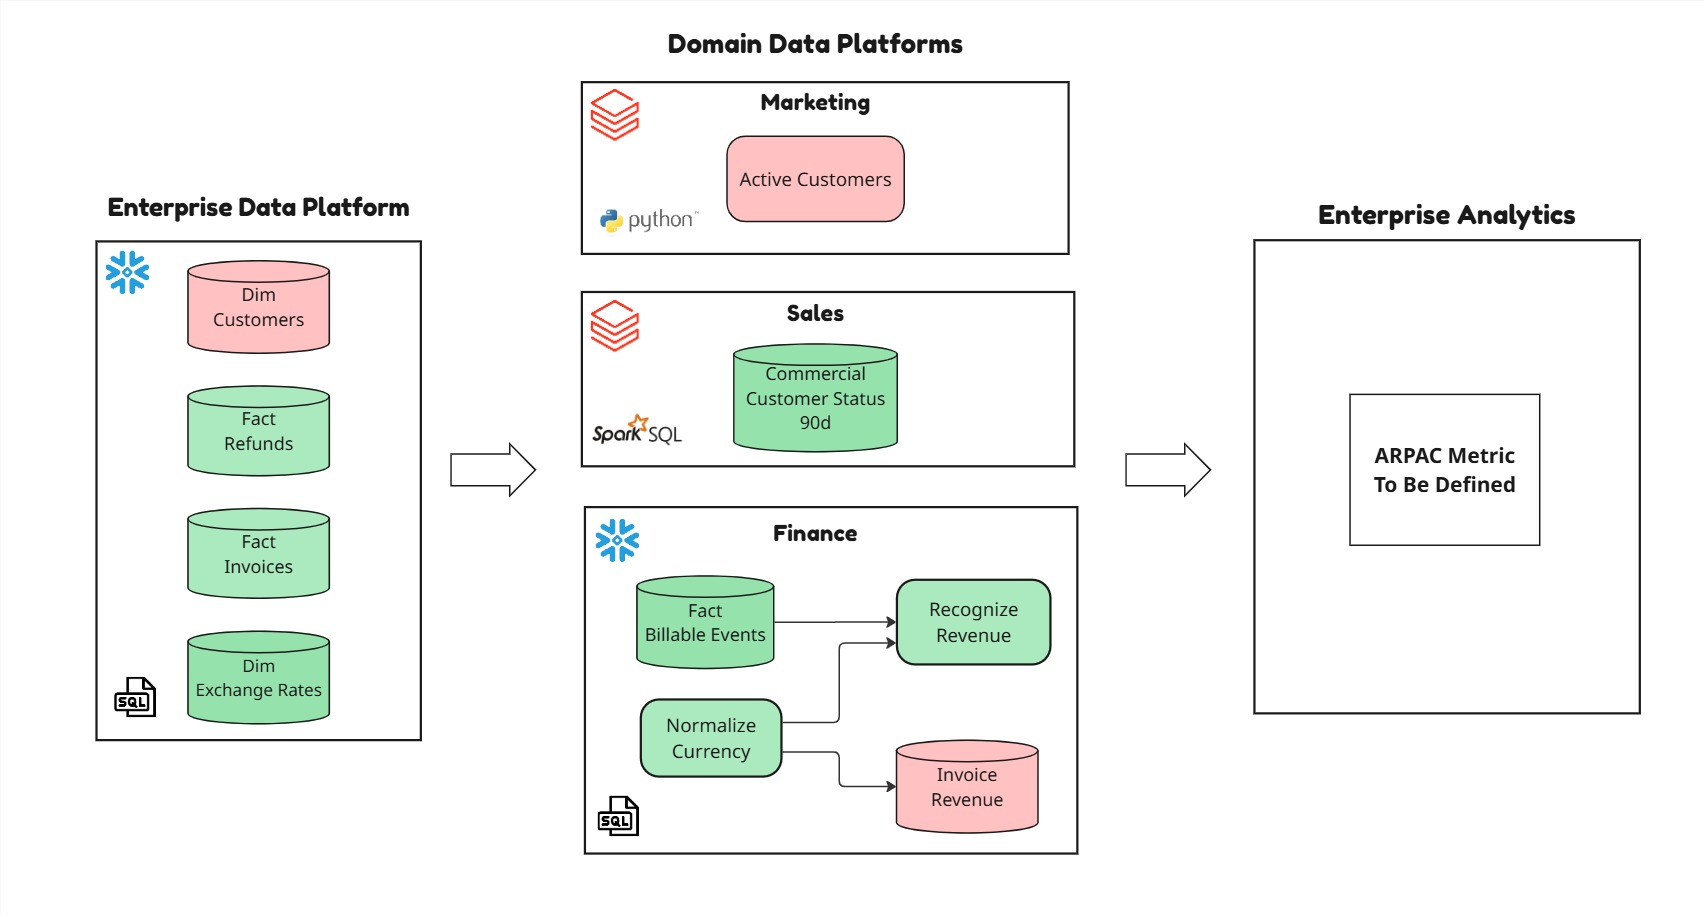
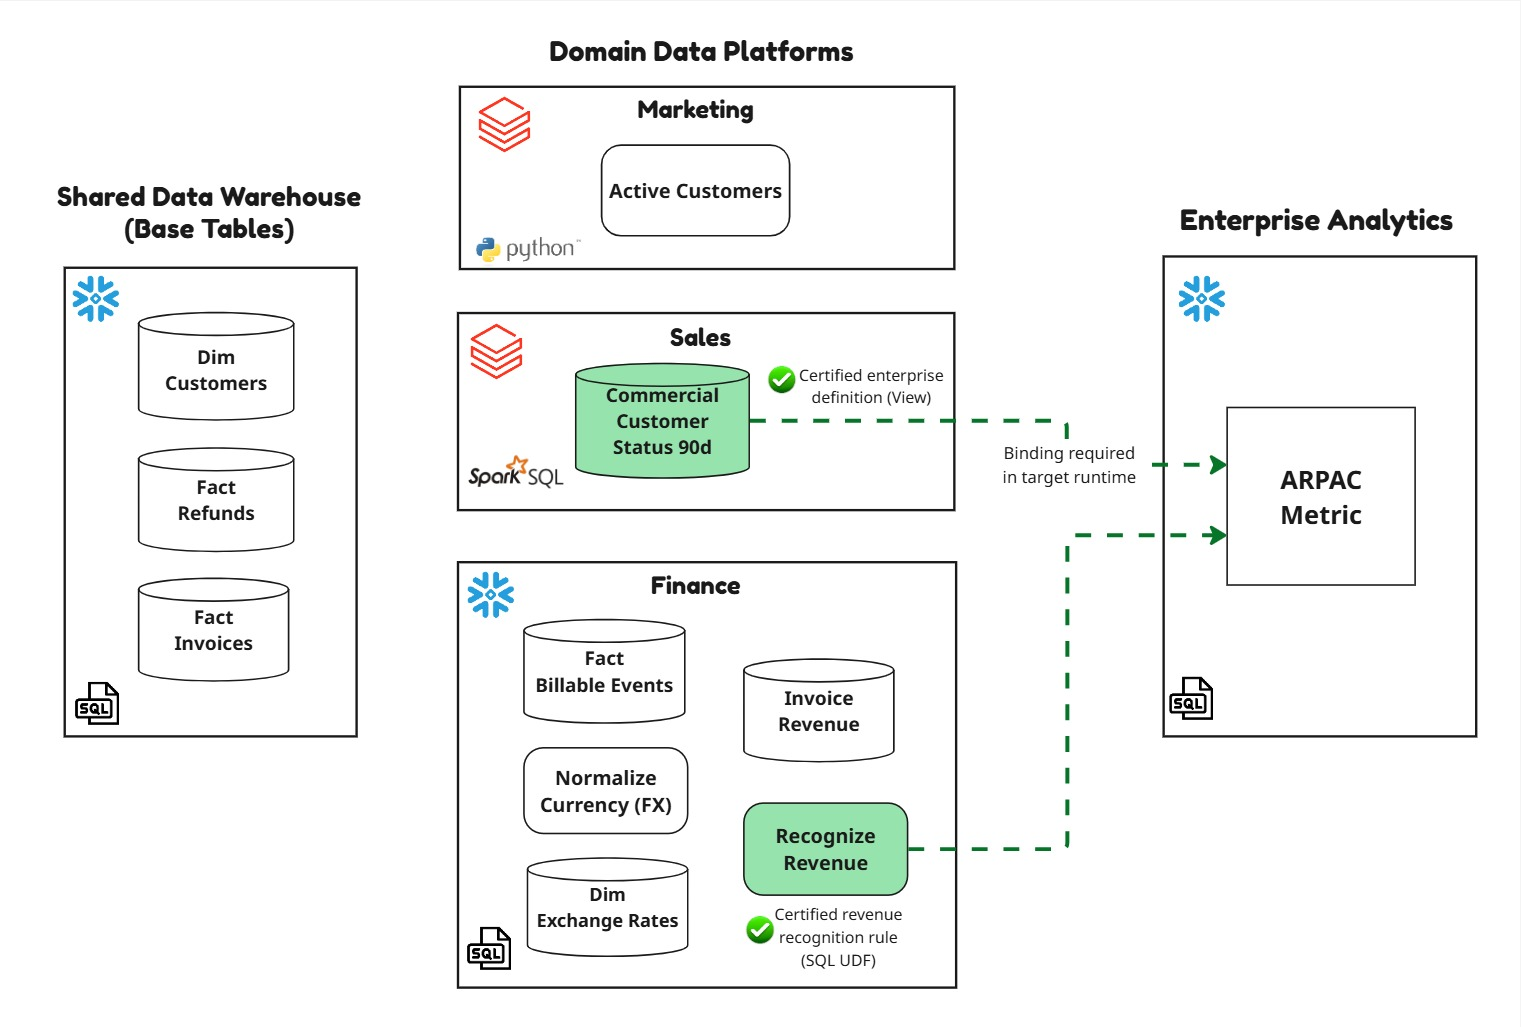
update demo

Changed region(s): [[0.0309, 0.0306, 0.927, 0.9782], [0.7416, 0.1834, 0.9888, 0.7336], [0.7416, 0.7642, 0.9579, 0.7948]]

diff --git a/registry-aware-authoring/article.md b/registry-aware-authoring/article.md
@@ -8,35 +8,40 @@
 
 ## An analytics engineer is asked for one number
 
-An analytics engineer is handed a familiar task: build **ARPAC — Average Revenue per Active Customer** (trailing 90 days) for an executive dashboard. They open their IDE, describe the metric to GitHub Copilot, and let it draft the SQL.
+An analytics engineer is handed a familiar task: build **ARPAC — Average Revenue per Active Customer** (trailing 90 days) for an executive dashboard. 
+They open their IDE, describe the metric to an AI coding assistant — GitHub Copilot in this PoC — and let it draft the SQL.
 
-ARPAC does not exist yet as a governed metric. But its parts do. **Net recognized revenue** and **active customers** are among the most reused concepts in any company — defined and redefined across warehouses, notebooks, dbt projects, and BI tools. In most medium and large organizations there are several *valid but different* definitions of each, each certified for a particular scope: a marketing definition of "active," a finance definition of "recognized revenue," a domain-local flag that was never meant to leave its team.
+ARPAC does not exist yet as a governed metric. But its parts do. **Net recognized revenue** and **active customers** are among the most reused concepts in any company — defined and redefined across warehouses, notebooks, and BI tools. In most large organizations, each concept has several *valid but different* definitions. Some are legitimate but intentionally scoped to a team or domain, such as Marketing or Finance, rather than approved as company-wide canonicals. Others are legacy or retired tables, views, or code that remain in repositories and can be mistaken for valid reuse candidates by an AI coding assistant.
 
-So the real task is not "write ARPAC from scratch." It is "compose ARPAC **from the definitions that are already approved for executive reporting**." That is a reuse problem, and it is exactly where AI-assisted authoring is supposed to help.
+So the real task is not "write ARPAC from scratch." It is "compose ARPAC for executive reporting **from definitions already approved as company-wide canonicals**." That is a reuse problem, and it is exactly where AI-assisted authoring is supposed to help.
 
-This article reports a small proof of concept that tested how well it does. The result is the interesting part: with the ordinary workspace-based approach, **none of the models produced the correct governed metric** — and giving the assistant *more* code made the answer more confident and more wrong.
+This article reports a small proof of concept that tested how well it does. The result is the interesting part: when the AI coding assistant could use only the code available in its workspace, **none of the models produced the correct governed metric** — and giving it more workspace code made the answer more confident and more wrong.
 
 ---
 
 ## The test: one metric, three models, three setups
+The diagram below maps the ARPAC use case across the enterprise data platform, highlighting the two certified enterprise definitions that the governed metric should reuse.
+![Data Landscape In The PoC](../publications/assets-diagrams/registry-aware-authoring-poc-scenarios.jpg)
 
 The PoC runs the same ARPAC task through three authoring setups and three current models — **GPT-5.5**, **Claude Sonnet 4.6**, and **Claude Opus 4.8**:
 
-- **Scenario 1A — standard Copilot, base tables only.** Only the shared warehouse tables (`dim_customers`, `fact_invoices`, `fact_refunds`) are in the workspace.
-- **Scenario 1B — standard Copilot, base tables + domain repositories.** The Finance and Marketing domain code is added, so the assistant can find similar existing logic.
-- **Scenario 2 — registry-aware authoring.** Instead of raw files, the assistant works through the **DRY Artifact Registry** — exposed as structured tools over a thin MCP server and driven by a custom **DRY Reuse** agent.
+| Authoring setup | Scenario | What the AI coding assistant can use |
+|---|---|---|
+| **Workspace-only (base tables)** | **Scenario 1A** | The shared warehouse tables: `dim_customers`, `fact_invoices`, and `fact_refunds`. |
+| **Workspace-only (base tables + domain repositories)** | **Scenario 1B** | The base tables plus chosen Finance and Marketing domain code, so the assistant can find similar existing logic. |
+| **Registry-aware authoring** | **Scenario 2** | The **DRY Artifact Registry**, exposed as structured tools over a thin MCP server and driven by the custom **DRY Reuse** agent. |
 
 The prompt is the same business intent in every run: a trailing-90-day ARPAC, numerator = net recognized revenue in USD counting *only* active customers, denominator = the count of active customers, "reuse existing definitions where appropriate and explain what was reused." The exact wording is not the point — the *pattern* it exposes is. (Full prompts and recorded runs: [demo walkthrough](demo-walkthrough.md).) Each scenario's repositories are mocked and deliberately scoped, so the test isolates *which context the assistant can reach*, not codebase size.
 
 One scoring rule matters up front, because it looks harsh and is deliberate. A run is graded on **one** question: *did it deliver the correct, governed ARPAC?* If a model cannot produce a component because the certified definition was unreachable, that scores **zero** — exactly like getting it wrong. Reachability is not an excuse; it is precisely the deficiency the registry exists to remove.
 
-![The nine artifacts and what each scenario can see](../publications/assets-diagrams/registry-aware-authoring-poc-scenarios.jpg)
+
 
 ---
 
 ## Why exposing the code workspace to Copilot doesn't deliver governed reuse
 
-### Scenario 1A: the duplication amplifier
+### Scenario 1A — Workspace-only (base tables): the duplication amplifier
 
 With only base tables visible, every model does the same thing: it builds ARPAC from first principles. It sums raw invoice amounts, and — depending on the run — nets refunds itself, filters to USD by hand, and reaches for `dim_customers.is_active` as the definition of "active customer."
 
@@ -44,13 +49,13 @@ The SQL runs. It looks correct. And it silently re-implements three governed rul
 
 This is the whitepaper's *"AI assistant as duplication amplifier"*: without reuse context, re-implementing a definition is cheaper than discovering it.
 
-### Scenario 1B: similarity without authority — the real finding
+### Scenario 1B — Workspace-only (base tables + domain repositories): similarity without authority
 
 The obvious fix is to give the assistant more to work with, so Scenario 1B adds the domain repositories. This is where the result becomes counter-intuitive, and where the article's headline sits: **more context did not fix the answer — it made the wrong one more convincing.**
 
 With domain code visible, the models found similar artifacts and reused them — the wrong ones:
 
-- The Finance repo contains `invoice_revenue` — a **retired** view that skips refunds. Nothing in the file says "retired," so models reused it and reproduced a known defect.
+- The Finance repo contains `invoice_revenue` — a **retired** view that skips refunds. Nothing in the code repository says "retired," so models reused it and reproduced a known defect.
 - The Marketing repo contains a login-based active-customer rule — a **domain-local** definition never certified for executive reporting. Two of the three models translated it to SQL and explicitly labelled it *"the authoritative active-customer definition used by executive dashboards."*
 - Meanwhile the actually-certified recognition function and the certified active-customer status view were **invisible** — they exist only as deployed warehouse objects and in repositories that were never checked out.
 
@@ -143,7 +148,7 @@ The same call is the agent's closing **Verify** step by design: find composables
 
 Because the MCP server and the CLI are thin clients over the **same** Lookup & Compare services, an engineer does not need the agent to use them: `search`, `recommend`, `resolve-binding`, and `compare` are callable from the command line for an ad-hoc check at authoring time, or as a build-time CI gate so the same comparison fires before merge.
 
-### Scenario 2 results
+### Scenario 2 — Registry-aware authoring: results
 
 The outcome held across all three models. Every one:
 

diff --git a/registry-aware-authoring/README.md b/registry-aware-authoring/README.md
@@ -71,18 +71,19 @@ components**. It does **not** store or execute implementation code:
 
 In this PoC the "existing repositories" are **mocked** as a per-scenario workspace tree (`registry-aware-authoring/scenarios/scenario-.../workspace/`).
 
-- **Scenario 1 — workspace-exposed DWH codebase.** The warehouse code is placed in the workspace and
-  standard Copilot reasons over it to build the metric. **1A** exposes base DWH tables only; **1B**
-  additionally exposes the domain warehouse tables/functions.
-- **Scenario 2 — registry-aware authoring.** The DRY Artifact Registry (registry service methods +
+- **Scenario 1 — workspace-only authoring.** Standard Copilot reasons over code available in the
+  workspace to build the metric. **Scenario 1A — Workspace-only (base tables)** exposes base DWH
+  tables only; **Scenario 1B — Workspace-only (base tables + domain repositories)** additionally
+  exposes Finance and Marketing domain code.
+- **Scenario 2 — Registry-aware authoring.** The DRY Artifact Registry (registry service methods +
   comparison service methods) is exposed through a thin MCP server and driven by the DRY Reuse agent
   (architecture in §7).
 
-| Scenario | Authoring mode | Exposed in the workspace | Likely / intended outcome |
-|---|---|---|---|
-| **1A** | Standard Copilot (workspace context + search) | Base DWH tables only (`dim_customers`, `fact_invoices`, `fact_refunds`) | Copilot re-codes ARPAC from first principles: invoice-based revenue, refunds ignored, invoice date as revenue date, and `dim_customers.is_active` (a 12-month order flag) misused as the active-customer definition. |
-| **1B** | Standard Copilot (workspace context + search) | Base tables **+** finance & marketing domain repos | Copilot reuses the most *similar* code it finds — the **retired** `finance.datasets.invoice_revenue` view and the Marketing-specific `active_customer` login rule — but similarity and availability do not indicate business authority. |
-| **2** | Registry-aware custom agent (MCP intent lookup + code comparison) | The **registry** (logical artifacts + resolvable bindings). The registry manifests live alongside it in `registry-aware-authoring/scenarios/scenario-2/registry-manifests/` | The agent searches by intent, evaluates lifecycle/scope, resolves the certified Snowflake and Databricks bindings, and authors **only** the missing Enterprise composition. Nothing governed is re-implemented. |
+| Authoring setup | Scenario | Authoring mode | Exposed in the workspace | Likely / intended outcome |
+|---|---|---|---|---|
+| **Workspace-only (base tables)** | **1A** | Standard Copilot (workspace context + search) | Base DWH tables only (`dim_customers`, `fact_invoices`, `fact_refunds`) | Copilot re-codes ARPAC from first principles: invoice-based revenue, refunds ignored, invoice date as revenue date, and `dim_customers.is_active` (a 12-month order flag) misused as the active-customer definition. |
+| **Workspace-only (base tables + domain repositories)** | **1B** | Standard Copilot (workspace context + search) | Base tables **+** Finance and Marketing domain repositories | Copilot reuses the most *similar* code it finds — the **retired** `finance.datasets.invoice_revenue` view and the Marketing-specific `active_customer` login rule — but similarity and availability do not indicate business authority. |
+| **Registry-aware authoring** | **2** | Registry-aware custom agent (MCP intent lookup + code comparison) | The **registry** (logical artifacts + resolvable bindings). The registry manifests live alongside it in `registry-aware-authoring/scenarios/scenario-2/registry-manifests/` | The agent searches by intent, evaluates lifecycle/scope, resolves the certified Snowflake and Databricks bindings, and authors **only** the missing Enterprise composition. Nothing governed is re-implemented. |
 
 The failure modes in 1A/1B are the point: **workspace similarity without governance can be worse
 than authoring from scratch**, because it lends false confidence to retired or domain-specific code.

diff --git a/registry-aware-authoring/demo-walkthrough.md b/registry-aware-authoring/demo-walkthrough.md
@@ -4,8 +4,10 @@
 > reusing enterprise-certified definitions instead of rebuilding them.
 
 The three scenarios map to the authoring-time rows of the whitepaper's *Duplication Detection and
-Prevention Techniques* table (§4.3.3). Scenarios 1A and 1B have no registry access. Scenario 2
-is **registry-backed canonical resolution** (high confidence, prevention at authoring time).
+Prevention Techniques* table (§4.3.3). **Scenario 1A — Workspace-only (base tables)** and
+**Scenario 1B — Workspace-only (base tables + domain repositories)** have no registry access.
+**Scenario 2 — Registry-aware authoring** is **registry-backed canonical resolution** (high
+confidence, prevention at authoring time).
 
 > **How this PoC extends the whitepaper.** In the whitepaper, the three *detection techniques* —
 > structural fingerprinting (AST), embedding-based similarity, and LLM-based analysis — sit at
@@ -15,8 +17,9 @@ is **registry-backed canonical resolution** (high confidence, prevention at auth
 > — so a likely reimplementation surfaces while the engineer is still typing, not only after the
 > PR is opened.
 >
-> **Two integration surfaces.** Scenarios 1A/1B use standard Copilot with workspace file context.
-> Scenario 2 uses a **custom DRY Reuse agent** over a thin MCP server for registry-aware authoring.
+> **Two integration surfaces.** The workspace-only scenarios (1A/1B) use standard Copilot with
+> workspace file context. Scenario 2 uses a **custom DRY Reuse agent** over a thin MCP server for
+> registry-aware authoring.
 
 ---
 
@@ -27,11 +30,11 @@ Two authoring setups are compared — the first split into two workspace-exposur
 - **Scenario 1 — workspace-exposed DWH codebase.** The data-warehouse codebase is exposed in the
   VS Code workspace and **standard Copilot** (the AI model) reasons over those files to build the
   metric. No registry, no MCP tools.
-  - **Scenario 1A — base DWH tables only.** Only the shared base tables
+  - **Scenario 1A — Workspace-only (base tables).** Only the shared base tables
     (`dim_customers`, `fact_invoices`, `fact_refunds`) are visible.
-  - **Scenario 1B — + domain warehouse code.** The base tables **plus** the Finance and Marketing
+  - **Scenario 1B — Workspace-only (base tables + domain repositories).** The base tables **plus** the Finance and Marketing
     domain warehouse tables/functions are exposed, so the model can find similar existing code.
-- **Scenario 2 — registry-aware authoring.** Instead of reasoning over raw files, the engineer works
+- **Scenario 2 — Registry-aware authoring.** Instead of reasoning over raw files, the engineer works
   through the **DRY Artifact Registry** — its **registry service methods** (intent search + binding
   resolution) and **comparison service methods** (code verification) — reached through a **thin MCP
   server** and driven by the **DRY Reuse agent**. Authority, not similarity, decides what is reused.
@@ -78,7 +81,7 @@ Constraints:
 
 ---
 
-## Scenario 1A — Standard Copilot, DWH tables only
+## Scenario 1A — Workspace-only (base tables)
 
 **Workspace exposed:** `registry-aware-authoring/scenarios/scenario-1a/workspace/` — the shared DWH base tables only
 (`dim_customers`, `fact_invoices`, `fact_refunds`).
@@ -103,7 +106,7 @@ different ARPAC numbers, and no pipeline fails.
 
 ---
 
-## Scenario 1B — Standard Copilot, domain repositories included
+## Scenario 1B — Workspace-only (base tables + domain repositories)
 
 **Workspace exposed:** `registry-aware-authoring/scenarios/scenario-1b/workspace/` — base DWH tables **plus** the
 Finance and Marketing domain repositories.

diff --git a/registry-aware-authoring/scenarios/README.md b/registry-aware-authoring/scenarios/README.md
@@ -15,11 +15,11 @@ point at lives in [`scenario-2/workspace/`](scenario-2/workspace/);
 the executable engine, CLI and MCP server live in [`../registry/`](../registry/). The narrated
 run with real command output is [`../demo-walkthrough.md`](../demo-walkthrough.md).
 
-| Scenario | What the workspace exposes | What Copilot does | Failure / success |
-|---|---|---|---|
-| [`scenario-1a`](scenario-1a/) | Base warehouse tables only — Snowflake (`dim_customers`, `fact_invoices`, `fact_refunds`) | Authors ARPAC from first principles | Re-implements revenue recognition; ignores currency; uses the wrong (12-month) active flag |
-| [`scenario-1b`](scenario-1b/) | Base tables (Snowflake) **+** finance (Snowflake) & marketing (Databricks) domain repos | Reuses the most *similar* artifacts it finds | Reuses a **retired** invoice-revenue view (skips refunds) and a **marketing** active-customer rule (logins) on a **different engine** — similarity ≠ authority |
-| [`scenario-2`](scenario-2/) | The **DRY Artifact Registry** (via CLI / MCP agent) | Searches by intent, checks lifecycle & ownership, resolves bindings, composes | Reuses the certified revenue + active-customer definitions; authors only the ratio |
+| Authoring setup | Scenario | What the workspace exposes | What Copilot does | Failure / success |
+|---|---|---|---|---|
+| **Workspace-only (base tables)** | [**Scenario 1A**](scenario-1a/) | Base warehouse tables only — Snowflake (`dim_customers`, `fact_invoices`, `fact_refunds`) | Authors ARPAC from first principles | Re-implements revenue recognition; ignores currency; uses the wrong (12-month) active flag |
+| **Workspace-only (base tables + domain repositories)** | [**Scenario 1B**](scenario-1b/) | Base tables (Snowflake) **+** Finance (Snowflake) and Marketing (Databricks) domain repositories | Reuses the most *similar* artifacts it finds | Reuses a **retired** invoice-revenue view (skips refunds) and a **marketing** active-customer rule (logins) on a **different engine** — similarity ≠ authority |
+| **Registry-aware authoring** | [**Scenario 2**](scenario-2/) | The **DRY Artifact Registry** (via CLI / MCP agent) | Searches by intent, checks lifecycle & ownership, resolves bindings, composes | Reuses the certified revenue + active-customer definitions; authors only the ratio |
 
 ## SQL dialect convention (Task 8)
 

diff --git a/registry-aware-authoring/poc-results.md b/registry-aware-authoring/poc-results.md
@@ -1,6 +1,8 @@
 # ARPAC Registry-Aware Authoring PoC — Results Analysis
 
-> Analysis of the PoC runs for Scenarios 1A, 1B and 2 across three models
+> Analysis of the PoC runs for **Scenario 1A — Workspace-only (base tables)**,
+> **Scenario 1B — Workspace-only (base tables + domain repositories)**, and
+> **Scenario 2 — Registry-aware authoring** across three models
 > (**GPT-5.5**, **Claude Sonnet 4.6**, **Claude Opus 4.8**), scored against the
 > failure patterns catalogued in §2 and the goals in
 > [demo-walkthrough.md](demo-walkthrough.md) and [README.md](README.md).
@@ -8,8 +10,8 @@
 - Scope analyzed: `scenarios/<scenario>/poc-results/<model>/`
 - Method: each run is checked against the failure patterns in §2; §3 links every model and
   scenario to the patterns it hit or avoided.
-- Task: does registry-aware authoring (Scenario 2) prevent the silent duplication that
-  workspace-only authoring (1A/1B) produces?
+- Task: does **Scenario 2 — Registry-aware authoring** prevent the silent duplication that the
+  workspace-only scenarios (1A/1B) produce?
 
 ---
 

diff --git a/registry-aware-authoring/scenarios/scenario-1b/README.md b/registry-aware-authoring/scenarios/scenario-1b/README.md
@@ -1,4 +1,4 @@
-# Scenario 1B — Standard Copilot authoring, warehouse **+** domain repos
+# Scenario 1B — Workspace-only (base tables + domain repositories)
 
 **Workspace exposed to Copilot:** the base warehouse tables *and* two domain repositories.
 **Engines:** the shared DWH and the finance-domain run on **Snowflake**; the marketing-domain runs

diff --git a/registry-aware-authoring/scenarios/scenario-2/README.md b/registry-aware-authoring/scenarios/scenario-2/README.md
@@ -1,4 +1,4 @@
-# Scenario 2 — Registry-aware Copilot authoring
+# Scenario 2 — Registry-aware authoring
 
 **Workspace exposed to Copilot:** the **DRY Artifact Registry**, reached through the thin MCP server and the **DRY Reuse** custom agent (or the CLI). Unlike scenarios 1A/1B, authoring starts with **resolution**, not generation.
 

diff --git a/registry-aware-authoring/scenarios/scenario-1a/README.md b/registry-aware-authoring/scenarios/scenario-1a/README.md
@@ -1,4 +1,4 @@
-# Scenario 1A — Standard Copilot authoring, warehouse tables only
+# Scenario 1A — Workspace-only (base tables)
 
 **Workspace exposed to Copilot:** the central data-warehouse base tables only.
 **Engine:** the shared DWH runs on **Snowflake** — all SQL in this scenario is Snowflake dialect.
